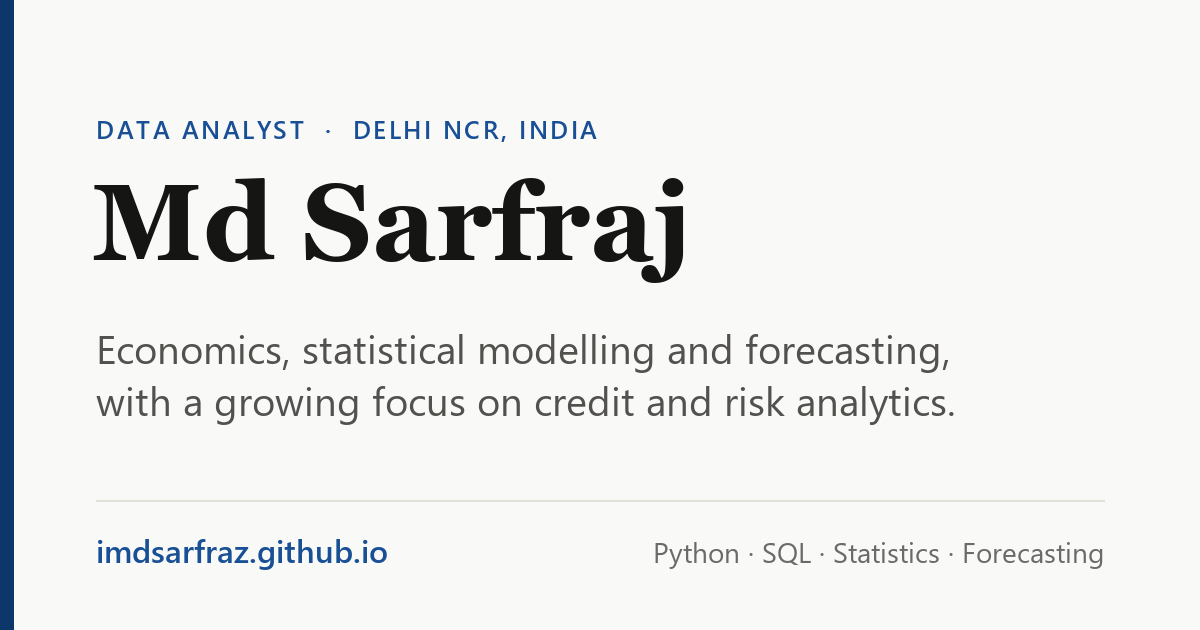
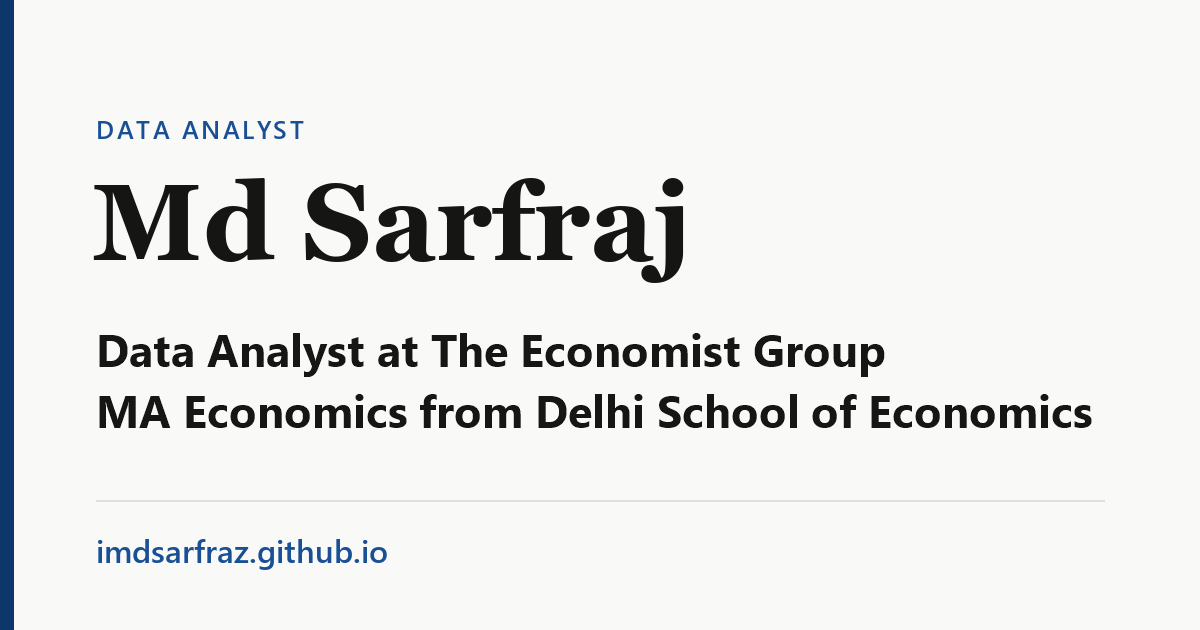
Update the portfolio preview for WhatsApp sharing

Changed region(s): [[0.0617, 0.5127, 0.925, 0.6937], [0.555, 0.8444, 0.925, 0.9048], [0.2775, 0.181, 0.4933, 0.2413]]

diff --git a/index.html b/index.html
@@ -3,8 +3,8 @@
 <head>
   <meta charset="utf-8">
   <meta name="viewport" content="width=device-width, initial-scale=1">
-  <title>Md Sarfraj — Data Analyst | Statistical Modelling, Forecasting &amp; Risk Analytics</title>
-  <meta name="description" content="Economics-trained Data Analyst (Delhi School of Economics) working with Python, SQL, statistical modelling and forecasting, with a growing focus on credit and risk analytics.">
+  <title>Md Sarfraj — Data Analyst</title>
+  <meta name="description" content="Data Analyst at The Economist Group. MA Economics from Delhi School of Economics.">
   <meta name="author" content="Md Sarfraj">
   <link rel="canonical" href="https://imdsarfraz.github.io/">
   <meta name="color-scheme" content="light">
@@ -14,12 +14,13 @@
   <meta property="og:type" content="profile">
   <meta property="og:site_name" content="Md Sarfraj">
   <meta property="og:title" content="Md Sarfraj — Data Analyst">
-  <meta property="og:description" content="Economics-trained Data Analyst working across data analytics, statistical modelling and forecasting, with a growing focus on credit and risk analytics.">
+  <meta property="og:description" content="Data Analyst at The Economist Group. MA Economics from Delhi School of Economics.">
   <meta property="og:url" content="https://imdsarfraz.github.io/">
-  <meta property="og:image" content="https://imdsarfraz.github.io/assets/img/og-image.png">
+  <meta property="og:image" content="https://imdsarfraz.github.io/assets/img/og-image.png?v=2">
+  <meta property="og:image:type" content="image/png">
   <meta property="og:image:width" content="1200">
   <meta property="og:image:height" content="630">
-  <meta property="og:image:alt" content="Md Sarfraj, Data Analyst: economics, statistical modelling and forecasting, with a growing focus on credit and risk analytics.">
+  <meta property="og:image:alt" content="Md Sarfraj. Data Analyst at The Economist Group. MA Economics from Delhi School of Economics.">
   <meta property="og:locale" content="en_IN">
   <meta property="profile:first_name" content="Md">
   <meta property="profile:last_name" content="Sarfraj">
@@ -36,7 +37,7 @@
     "@type": "Person",
     "name": "Md Sarfraj",
     "url": "https://imdsarfraz.github.io/",
-    "image": "https://imdsarfraz.github.io/assets/img/og-image.png",
+    "image": "https://imdsarfraz.github.io/assets/img/og-image.png?v=2",
     "jobTitle": "Data Analyst",
     "worksFor": { "@type": "Organization", "name": "The Economist Group" },
     "alumniOf": [
@@ -86,8 +87,8 @@
     <section class="hero" aria-labelledby="name">
       <div class="container">
         <h1 id="name">Md Sarfraj</h1>
-        <p class="lead">Data Analyst at The Economist Group</p>
-        <p class="hero-intro">MA Economics -- Delhi School of Economics</p>
+        <p class="lead"><strong>Data Analyst at The Economist Group</strong></p>
+        <p class="hero-intro"><strong>MA Economics from Delhi School of Economics</strong></p>
 
         <div class="actions">
           <a class="btn btn-primary" href="#projects">View projects</a>
